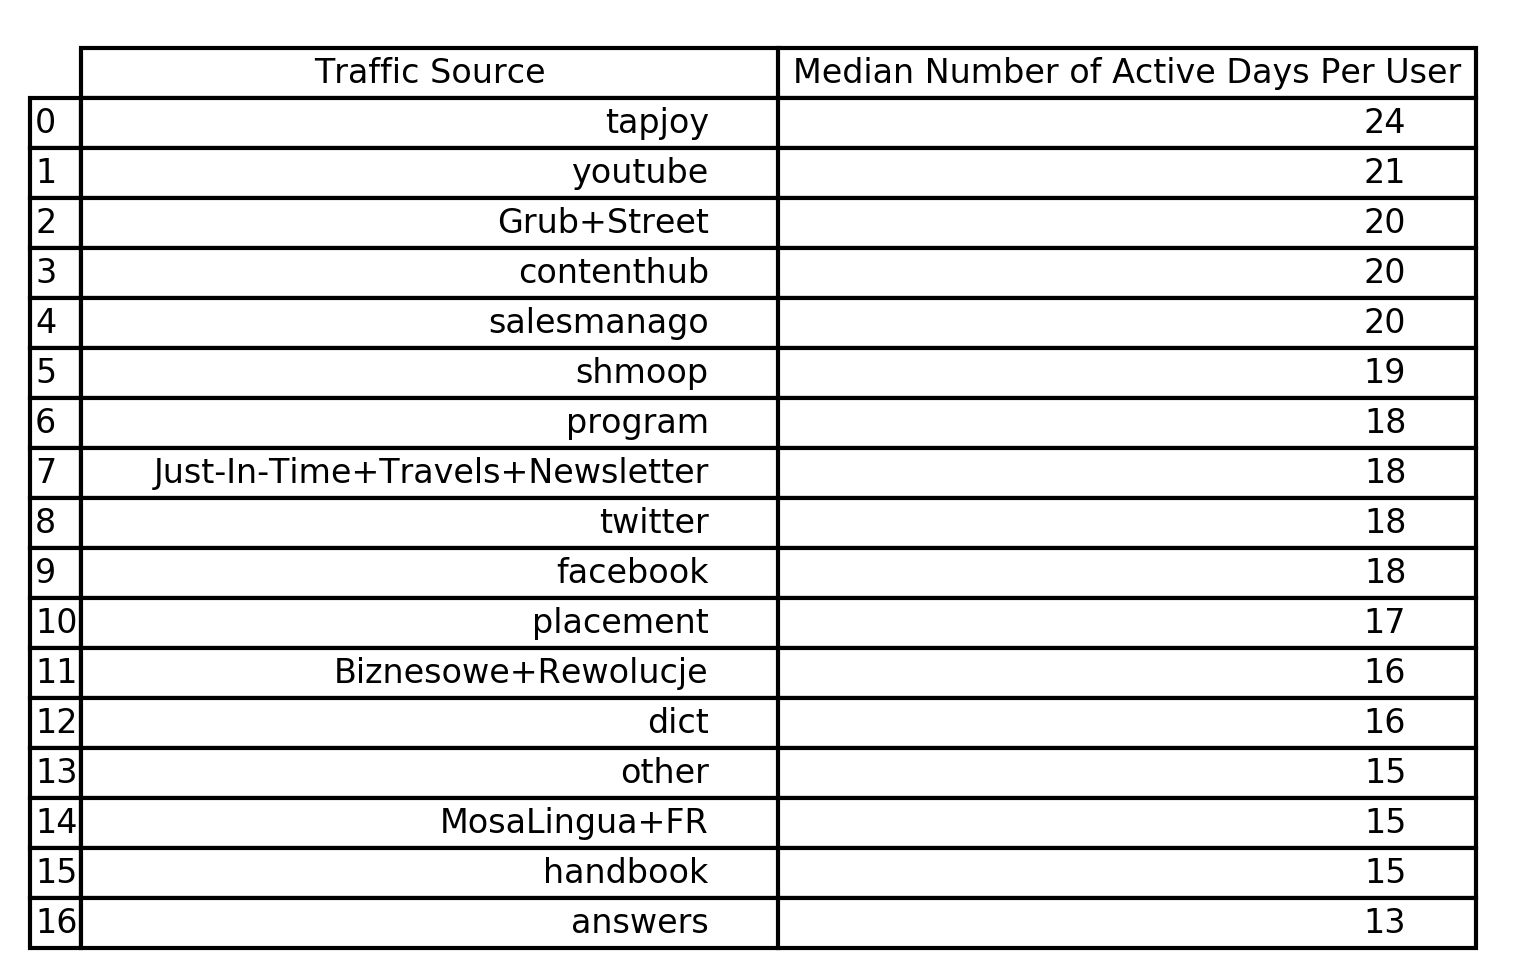
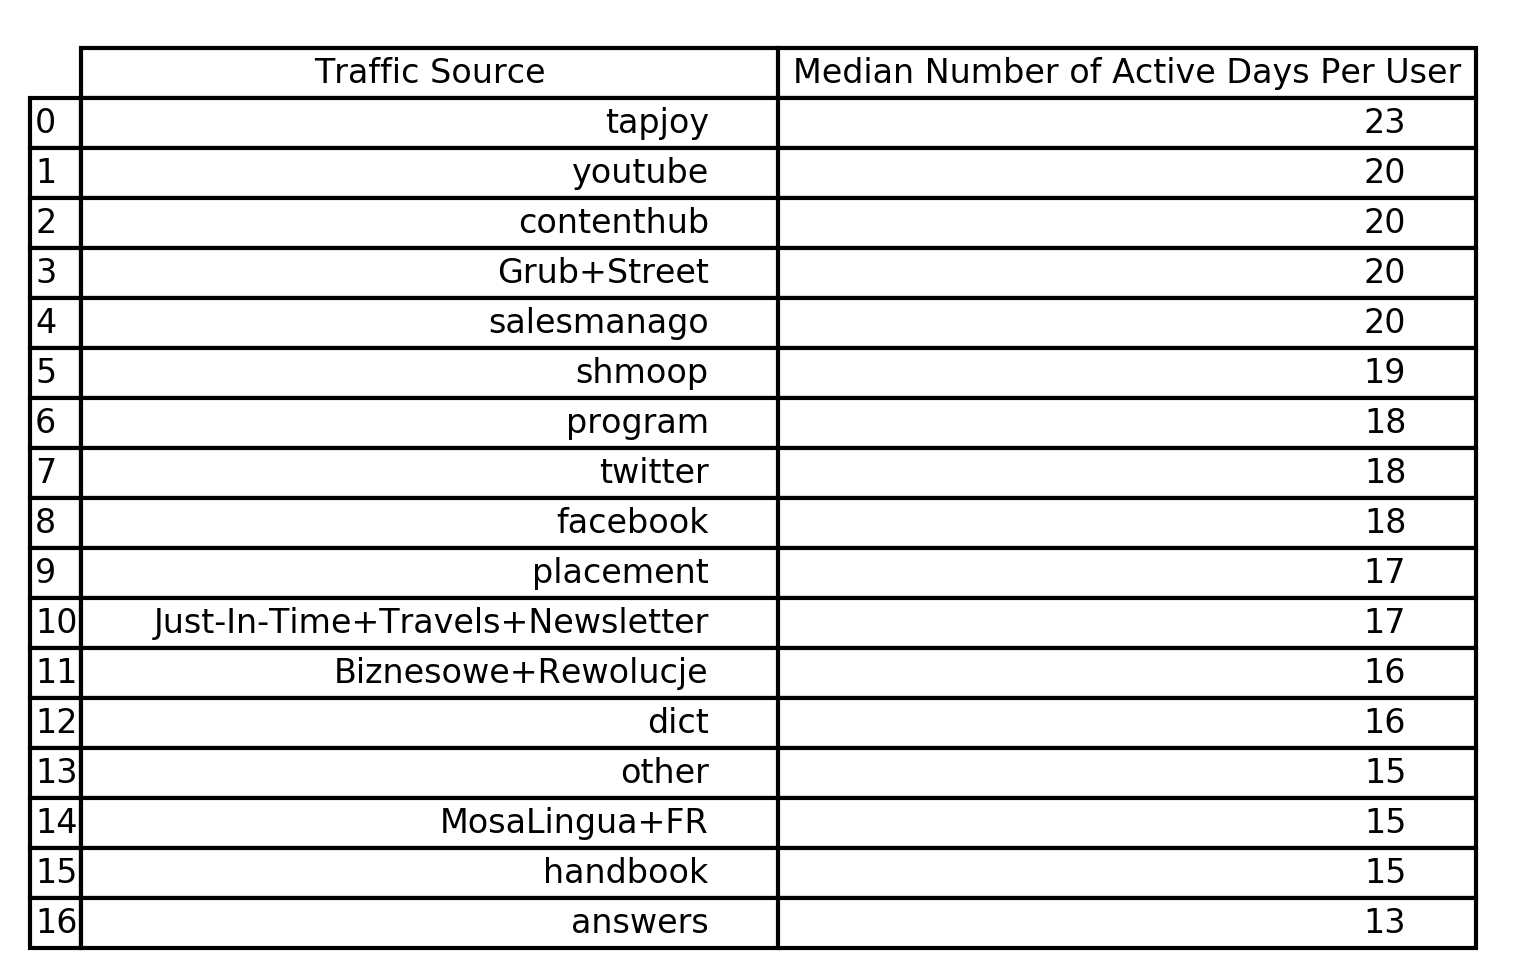
minor edits to notebook and README

diff --git a/README.md b/README.md
@@ -40,11 +40,7 @@ We observe a very distinct weekly pattern: the number of DAUs stays constant Mon
 
 We should also consider analyzing why we observe an overall positive trend over the month. Can this trend be explained solely by looking at the context in which people use the app (work, leisure, etc) or is it the result of more successful marketing and advertising campaigns over time? It could be useful to compare this positive trend with DAU plots from February of previous years and other months of the year.
 
-Finally, the plot shows that the majority of DAUs are registered users. The percentage
-of registered DAUs slightly increases over the month (80.1% on Feb 1st, 81.4% on Feb 15th,
-and 81.8% on Feb 29th). It would be interesting to understand what causes this increase
-and discuss strategies to further drive conversion of unregistered DAUs (device DAUs) into
-registered users.
+Finally, the plot shows that the majority of DAUs are registered users. The percentage of registered DAUs slightly increases over the month (80.1% on Feb 1st, 81.4% on Feb 15th, and 81.8% on Feb 29th). It would be interesting to understand what causes this increase and discuss strategies to further drive conversion of unregistered DAUs (device DAUs) into registered users.
 
 Active users can also be tracked and measured over different time intervals than daily (e.g. weekly or monthly active users) and/or expressed as ratios (e.g. the DAU to MAU ratio, or "stickiness").
 
@@ -56,38 +52,23 @@ Another important metric to consider is retention, i.e. the ability of the app t
 
 The three curves follow a quite similar pattern, with a sharp decrease in retention in the first few days followed by a plateauing trend. The curves are also clearly modulated by the weekend effect discussed previously, which makes it more delicate to compare curves (since February 14th is a Sunday while February 4th and 10th are weekdays). The Day 2 retention is 43.9%, 50.7%, and 55.0%, while the Day 7 retention is 43.2%, 48.3%, and 47.4% for February 4th, 10th, and 14th respectively. The overall higher retention for the February 10th and 14th curves compared to the February 4th curve correlates with the fact that the number of DAUs has an overall increasing trend over the course of the month. The Day 2 retention shows that approximately half of the users stop using the app after only two days. Can we analyze additional data and identify what causes such quick churn? In the longer run (e.g. Day 14), the retention seems to be plateauing around 38-44% for the three dates. Do the relevant stakeholders find this acceptable?
 
-Finally, the number of new users on February 4th (Thursday), 10th (Wednesday), and
-14th (Sunday) is respectively 2761, 3129, and 2735. The lower number on February 14th
-(despite being a later day in the month than the other two dates) is due to the fact that
-on Sundays the number of users is lower than previous weekdays. The number of users on
-Wednesdays and Thursdays is usually comparable, and therefore as expected the number
-of new users on the 10th is higher than on the 4th due to the overall monthly increasing
-trend.
+Finally, the number of new users on February 4th (Thursday), 10th (Wednesday), and 14th (Sunday) is respectively 2761, 3129, and 2735. The lower number on February 14th (despite being a later day in the month than the other two dates) is due to the fact that on Sundays the number of users is lower than previous weekdays. The number of users on Wednesdays and Thursdays is usually comparable, and therefore as expected the number of new users on the 10th is higher than on the 4th due to the overall monthly increasing trend.
 
 ## Analysis of Traffic Sources
 
-Tracking sources of traffic to the app allows us to extract insights about what traffic sources redirect the app's best (and worst) users. These insights are extremely valuable for many reasons, for instance in the evaluation of the effectiveness of specific marketing and advertising campaigns, in the creation of ad spending budgets on specific networks and platforms, in the segmentation of users for targeted actions (promotions, recommendations, etc) and so on. I therefore decided to analyze the traffic sources in the dataset to answer the question: "From which sources does the app get its best users?".
+Tracking sources of traffic to the app allows us to extract insights about what traffic sources redirect the app's best and worst users (according to specific metrics). These insights are extremely valuable for many reasons, for instance in the evaluation of the effectiveness of specific marketing and advertising campaigns, in the creation of ad spending budgets on specific networks and platforms, in the segmentation of users for targeted actions (promotions, recommendations, etc) and so on. I therefore decided to analyze the traffic sources in the dataset to answer the question: "From which sources does the app get its best users?".
 
-As mentioned earlier, the `utmSource` column contains approximately 35% missing values. While it is absolutely crucial to understand the meaning and the cause of these missing values in a real-world scenario, without additional information at my disposal I had to exclude all the rows with missing traffic source from the analysis of traffic sources and quality of users. If we are interested in determining from which traffic source the app
-gets its best and worst users, we first need to define who good users are. For this analysis, I decided to study traffic sources according to two different definitions of "good users": 1. users who open the app a lot (large total number of pings over the month), and 2. users who open the app at least once on many different days (many "active" days during the month). This is not an exhaustive list of definitions of good users. In the presence of additional data (e.g. time spent on the app per session, in-app purchases, premium subscription, etc), many other definitions could be given.
+As mentioned earlier, the `utmSource` column contains approximately 35% missing values. While it is absolutely crucial to understand the meaning and the cause of these missing values in a real-world scenario, without additional information at my disposal I had to exclude all the rows with missing traffic source from the analysis of traffic sources and quality of users. If we are interested in determining from which traffic source the app gets its best and worst users, we first need to define who good users are. For this analysis, I decided to study traffic sources according to two different definitions of "good" users: 1. users who open the app a lot (large total number of pings over the month), and 2. users who open the app at least once on many different days (many "active" days during the month). These two definitions essentially define "good" users as engaged users. The idea behind this is that the more engaged a user is, the more likely they are to retain, to make in-app purchases, to convert into premium users, thus, ultimately, increasing the revenue and profits of the app. However, this is not by any means an exhaustive list of definitions of good users. In the presence of additional data (e.g. time spent on the app per session, in-app purchases, premium subscription, etc), many other definitions could be given.
 
-Using the first definition, I was interested in computing the median number of pings
-per user in February 2016 for each traffic source and then ranking sources from best to
-worst according to this metric. I decided to use the median instead of the mean to
-limit the contribution of outliers (e.g. users who pinged an incredibly high number of times
-possibly due to fraudulent activities such as click spamming). In order to construct the
-desired metric, I first determined the number of pings for each user by traffic source and the number of distinct users coming from each source. I noticed that some sources redirected
-to the app a very small number of users during the whole month. For this reason, I decided
-to focus only on sources with at least 100 distinct users. The median numbers of pings
-per user for the selected sources are shown in the following table:
+Using the first definition, I was interested in computing the median number of pings per user in February 2016 for each traffic source and then ranking sources from best to worst according to this metric. I decided to use the median instead of the mean since the distribution of number of pings per user is non-normal (and therefore the mean is not an optimal statistic) and using the median limits the contribution of outliers (e.g. users who pinged an incredibly high number of times possibly due to fraudulent activities such as click spamming). In order to construct the desired metric, I first determined the number of pings for each user by traffic source and the number of distinct users coming from each source. I noticed that some sources redirected to the app a very small number of users during the whole month. For this reason, I decided to focus only on sources with at least 100 distinct users. The median numbers of pings per user for the selected sources are shown in the following table:
 
 <img src="https://github.com/rmondini/product-analytics/blob/main/plots/MNPPU_Table.png" width="480">
 
-We observe that, according to this metric and definition of good users, the app gets its best users from `tapjoy` (users from this source pinged 29 times over the month as a median), while the worst users come from the source called `answers` (15 median pings per user). While using the median makes this metric rather robust, it is still not optimal, as a source could have a high median number of pings per user due to users who pinged a lot only on one specific day and then stopped using the app. In this situation, it is not desirable to consider these as good users. For this reason, I moved to the second definition presented earlier. In this case, I chose the median number of active days per user as the relevant metric (with an active day defined as a day with at least one ping). In using this definition to determine the best and worst sources, I implicitly assumed that all sources could redirect users to the app from the first day of the month (if a source started redirecting traffic only from February 20th, its median number of active days per user could be at most 10 and a comparison with other sources might not be meaningful). This assumption would need to be explicitly checked in a real-world scenario. As in the previous analysis, I reported results only for sources with at least 100 distinct users. The median numbers of active days per user are shown in the following table:
+We observe that, according to this metric and definition of good users, the app gets its best users from `tapjoy` (users from this source pinged 29 times over the month as a median), while the worst users come from the source called `answers` (15 median pings per user). While using the median makes this metric rather robust, it is still not optimal, as a source could have a high median number of pings per user due to users who pinged a lot only on one specific day and then stopped using the app. In this situation, it is not desirable to consider these as good users. For this reason, I moved to the second definition presented earlier. In this case, I chose the median number of active days per user as the relevant metric (with an active day defined as a day with at least one ping). As in the first definition, I chose the median because of the non-normal distribution of number of active days per user. It is worth mentioning here that more advanced definitions coud be considered as well, for instance employing the nth percentile (80th, 95th, etc) instead of the median. Furthermore, in using this definition to determine the best and worst sources, I implicitly assumed that all sources could redirect users to the app from the first day of the month (if a source started redirecting traffic only from February 20th, its median number of active days per user could be at most 10 and a comparison with other sources might not be meaningful). This assumption would need to be explicitly checked in a real-world scenario. As in the previous analysis, I reported results only for sources with at least 100 distinct users. The median numbers of active days per user are shown in the following table:
 
 <img src="https://github.com/rmondini/product-analytics/blob/main/plots/MADPU_Table.png" width="480">
 
-Also in this case, `tapjoy` redirects to the app the best users, who had a median of 24 active days, while the worst users (13 median active days) come again from `answers`. We also observe that the top 5 sources according to the two metrics/definitions are the same: `contenthub`, `Grub+Street`, `salesmanago`, `tapjoy`, and `youtube`. As mentioned earlier, this analysis could be used in conjunction with an analysis of how the advertising budget is spent across all sources to inform future marketing and advertising campaigns. For instance, since these identified five sources seem to provide the app with its most engaged users, the recommendation could be to increase ad spending on those sources to further drive the number of good users redirected to the app. On the other hand, any advertising budget spent on sources like `answers` does not seem to be extremely fruitful, as this source redirects users that are considerably less engaged according to either metric.
+Also in this case, `tapjoy` redirects to the app the best users, who had a median of 23 active days, while the worst users (13 median active days) come again from `answers`. We also observe that the top 5 sources according to the two metrics/definitions are the same: `contenthub`, `Grub+Street`, `salesmanago`, `tapjoy`, and `youtube`. As mentioned earlier, this analysis could be used in conjunction with an analysis of how the advertising budget is spent across all sources to inform future marketing and advertising campaigns. For instance, since these identified five sources seem to provide the app with its most engaged users, the recommendation could be to increase ad spending on those sources to further drive the number of good users redirected to the app. On the other hand, any advertising budget spent on sources like `answers` does not seem to be extremely fruitful, as this source redirects users that are considerably less engaged according to either metric.
 
 
 
